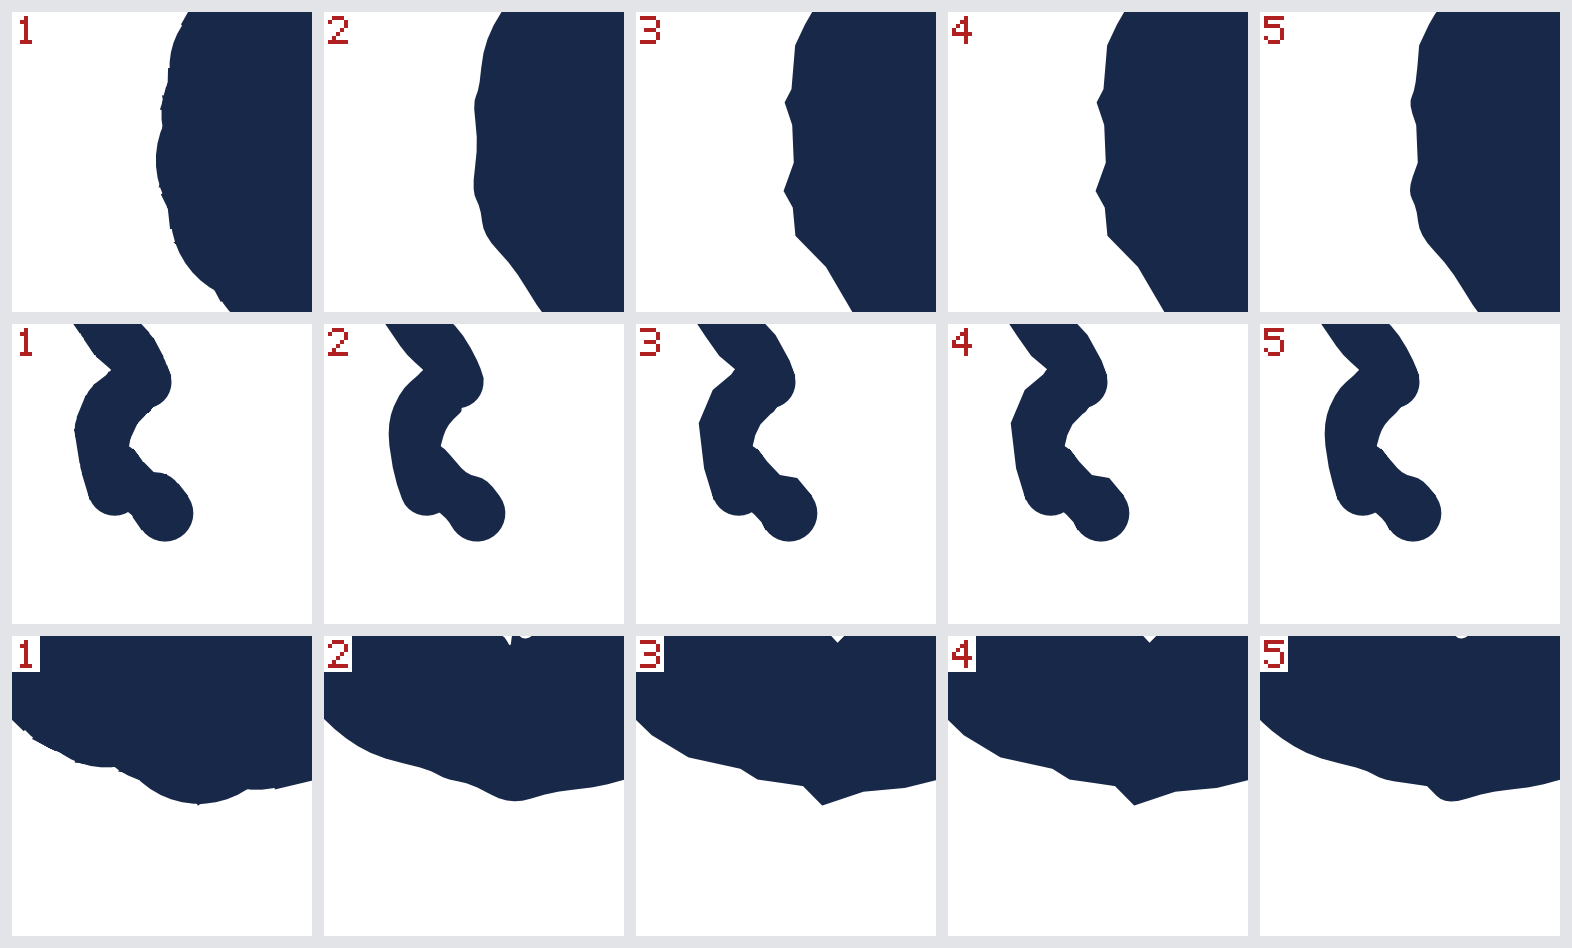
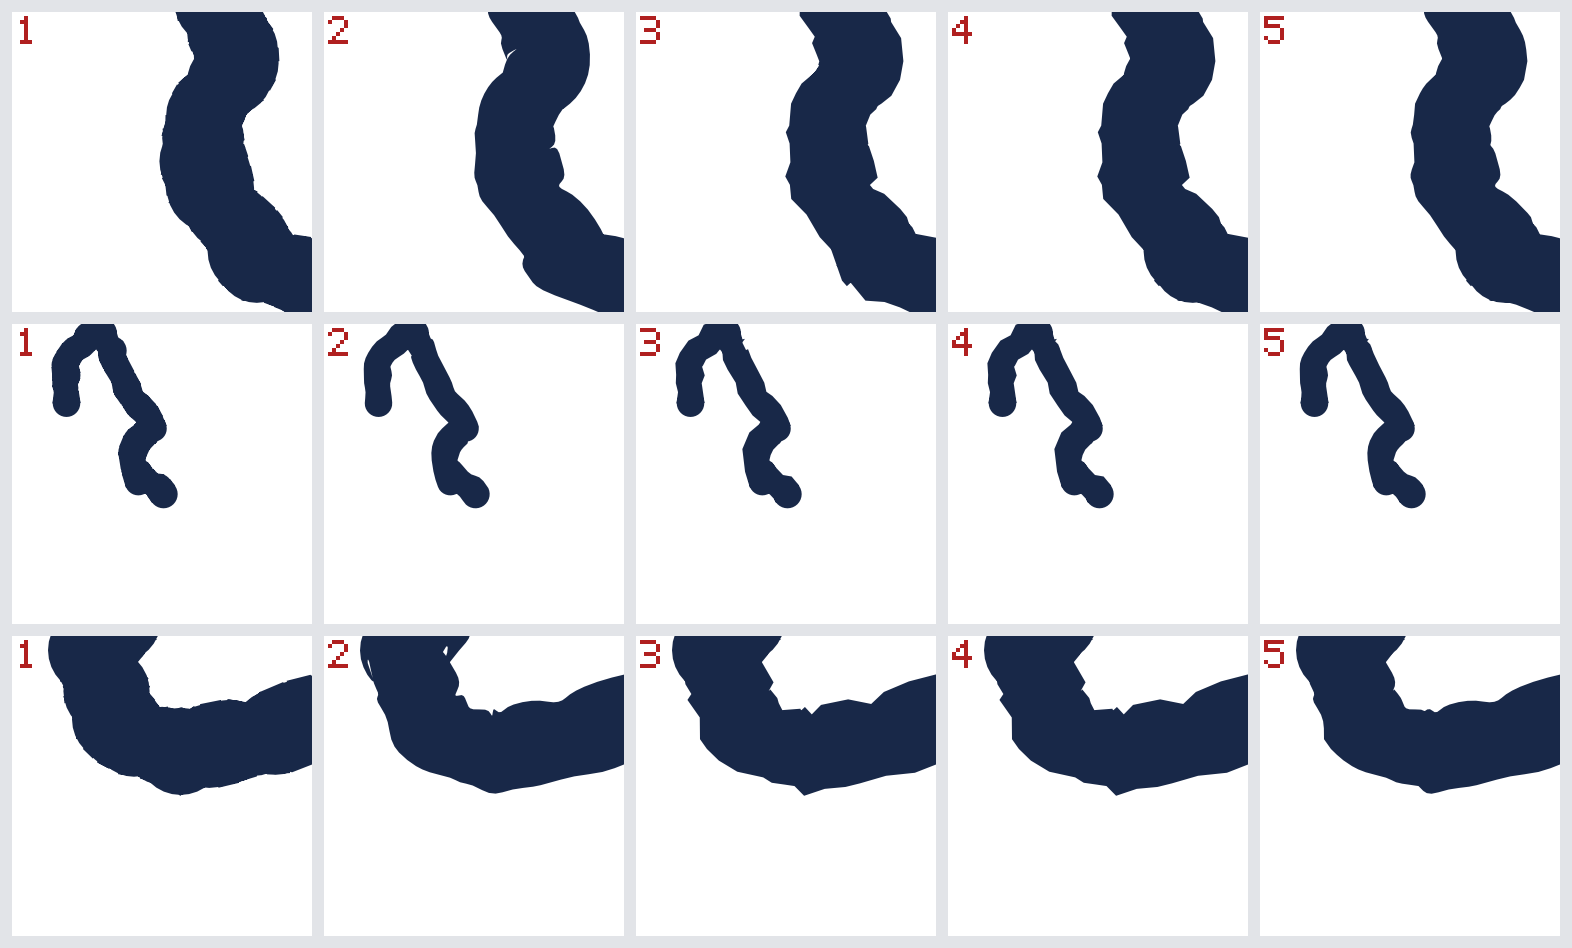
Slice 3d: the second picture shows both edges of a stroke
The UX re-review found white marks at the top of one row of the second
picture that the caption did not explain. That picture is now drawn at
half the zoom of the first, so both edges of each wide stroke are in
the cell: the marks are notches cut into the far edge where one run
ends and the next begins, not gaps inside the ink. The caption and the
alt text say so, name the single path's slits in the same strokes, and
explain the white ticks along the edge of discs and bands.

PROFILE.md: "licences read from crate metadata, code not audited".

Claude-Session: https://claude.ai/code/session_01MNGBU5gkNH4LK7ZaEzpAyp

diff --git a/spike/render-trial/src/main.rs b/spike/render-trial/src/main.rs
@@ -560,7 +560,7 @@ const DIGITS: [[u8; 7]; 5] = [
 ];
 
 /// A picture of the forms side by side, as a PNG: parts of three rough strokes, a row each, drawn by `vello_cpu`
-/// at 8192 pixels a unit (thirty-two times the scene's zoom). The columns carry their numbers: 1 discs and
+/// at 8192 or 4096 pixels a unit (thirty-two or sixteen times the scene's zoom). The columns carry their numbers: 1 discs and
 /// bands, 2 the single path, 3 runs cut at a quarter turn, 4 runs cut at an eighth, 5 runs cut at an eighth
 /// with their sides smoothed.
 ///
@@ -569,16 +569,18 @@ const DIGITS: [[u8; 7]; 5] = [
 /// that stretch. `runs`: those where the smoothed runs cover the least of what discs and bands cover, each row
 /// centred on the longest stretch they miss.
 fn picture(out: &str, worst: &str) {
+    // Pixels a unit: thirty-two times the scene's zoom for `single`, whose flaws are small, and sixteen times
+    // for `runs`, so that both edges of a wide stroke are in the cell.
+    let zoom = if worst == "runs" { 4096.0 } else { 8192.0 };
     const CELL: usize = 300;
     const GAP: usize = 12;
     const ROWS: usize = 3;
-    const ZOOM: f64 = 8192.0;
     let rough = (true, false);
     let forms = [KINDS[0].1, KINDS[2].1, KINDS[3].1, KINDS[4].1, KINDS[5].1];
-    let paths = forms.map(|kind| scene::lone_strokes(300, kind, ZOOM, rough, 100));
+    let paths = forms.map(|kind| scene::lone_strokes(300, kind, zoom, rough, 100));
     let mut ranked: Vec<(f64, Point, usize)> = match worst {
         "single" => {
-            let inside = scene::lone_strokes(300, KINDS[0].1, ZOOM, rough, 70);
+            let inside = scene::lone_strokes(300, KINDS[0].1, zoom, rough, 70);
             (0..300)
                 .map(|i| {
                     let (gap, at) = worst_gap(&inside[i], &paths[1][i]);

diff --git a/PROFILE.md b/PROFILE.md
@@ -6,7 +6,7 @@
 | Classification | prototype (spike stage): design documents and the first spike code (`crates/everink-core`, `crates/everink-sync`, and the trial packages `spike/text-trial`, `spike/render-trial`, `spike/render-web`, `spike/store-trial`, `spike/controls-trial`, `spike/controls-window` and `spike/controls-web`). Nothing is released. Everink is a planned infinite, multi-user drawing surface with one core for native and WebAssembly (`docs/vision.md`) |
 | Accountable owner | Von Chance (vchance) — owner-reserved decisions (R8); approver of exceptions and D-overrides |
 | Supported platforms | Linux x86-64: `CI` (build, lint, tests). macOS aarch64: `manual` (the owner's Mac; the golden file is written there; the controls window is opened and its screen-reader and keyboard checks are made there). wasm32 (`wasm32-wasip1`, under Node): `CI` for `everink-core` only (tests and both golden files). A browser (`wasm32-unknown-unknown`): `CI` builds and lints `spike/render-web` and lints `spike/controls-web`; `manual` for running them (Chrome on the owner's Mac; the renderer page checks itself, and `spike/controls-web/check.mjs` drives the controls page). Windows: `nobody` |
-| Toolchain | Rust 1.97.1, pinned in `rust-toolchain.toml` with `rustfmt`, `clippy` and the `wasm32-wasip1` and `wasm32-unknown-unknown` targets; Node (as found on the machine: 26 on the owner's Mac, the runner's own on CI) runs the wasm32 tests through `tools/wasi-run.mjs`; edition 2024; one Cargo workspace (`Cargo.toml`, `Cargo.lock` committed). Dependencies: `num-bigint` 0.5.1 and `num-traits` 0.2.19; for tests only, `dashu-int` 0.6.2 as a second big-integer library to check against; for one example only, `socket2` 0.6.5 (with `libc`, and on Windows targets `windows-sys` and `windows-link`), all MIT OR Apache-2.0. Licenses: all MIT OR Apache-2.0, except two crates that `dashu-int` brings in for tests, `num-modular` and `num-order`, which are Apache-2.0 only (compatible; test-only, never distributed). The trial package `spike/text-trial` is outside the workspace with its own lock file: `loro` 1.17.1, `yrs` 0.28.1, `automerge` 0.12.0 and what they bring in (201 packages over all platforms; all offer MIT or Apache-2.0 except `im`, `bitmaps`, `sized-chunks` (MPL-2.0-or-later) and `xxhash-rust` (BSL-1.0) from Loro and `zlib-rs` (Zlib) from Automerge; trial-only, never distributed, read from crate metadata and not audited). The trial package `spike/render-trial` is outside the workspace with its own lock file: `vello_gpu` 0.4.0, `vello_cpu` 0.4.0, `vello_common` 0.4.0, `wgpu` 30.0.2, `pollster` 1.0.1, and for slice 3d `i_overlay` 9.1.0 (polygon clipping, used by its `union` run only) and `png` 0.18.1 (already brought in by the others; now used directly to write a picture), and what they bring in (219 packages over all platforms, 221 entries in the lock file with the trial and the core; all offer MIT or Apache-2.0 except `foldhash`, `slotmap` and `zlib-rs` (Zlib), `libloading` (ISC) and `yoke`, `yoke-derive`, `zerofrom`, `zerofrom-derive` (Unicode-3.0); `i_overlay` is MIT OR Apache-2.0 and the four it brings in, `i_float` 5.0.0, `i_key_sort` 0.12.0, `i_shape` 5.0.0 and `i_tree` 0.20.0, are MIT; trial-only, never distributed, read from crate metadata and not audited; the PR reviewer's `cargo audit` of the lock file on 2026-11-13 reported no advisories). The trial package `spike/render-web` is outside the workspace with its own lock file: the same renderer packages for `wasm32-unknown-unknown`, with `wasm-bindgen` 0.2.130, `wasm-bindgen-futures` 0.4.80, `js-sys` and `web-sys` 0.3.107 and `futures-channel` 0.3.34 (168 packages over all platforms; all offer MIT or Apache-2.0 except `foldhash` and `zlib-rs` (Zlib), `libloading` (ISC) and `yoke`, `yoke-derive`, `zerofrom`, `zerofrom-derive` (Unicode-3.0); trial-only, never distributed, read from crate metadata). `cargo audit` on 2026-11-12 found no advisory for the workspace's lock file or the two renderer trials'; for `spike/text-trial` it gave seven warnings and no vulnerability (unmaintained: `atomic-polyfill`, `bitmaps`, `im`, `sized-chunks`, `smallstr`; unsound: `im`, `sized-chunks`; all brought in by Loro). The trial package `spike/store-trial` is outside the workspace with its own lock file: `rusqlite` 0.42.0 with its `bundled` feature (SQLite 3.54.1, built from source, public domain), `lz4_flex` 0.14.0, `blake3` 1.8.7, `crc32c` 0.6.9 and what they bring in (37 packages over all platforms; all offer MIT or Apache-2.0 except `foldhash` (Zlib); trial-only, never distributed, read from crate metadata; no advisory on 2026-11-12). The trial package `spike/controls-trial` is outside the workspace with its own lock file: `egui` 0.37.0, `taffy` 0.15.1, `parley` 0.12.0, `accesskit` 0.25.2 and what they bring in (120 packages over all platforms; all offer MIT or Apache-2.0 except `foldhash` and `slotmap` (Zlib), `libloading` (ISC) and 22 packages of ICU4X and its helpers (Unicode-3.0), which `parley` brings; `unicode-ident` and `unicode-properties` are (MIT OR Apache-2.0) AND Unicode-3.0; `epaint_default_fonts` is MIT OR Apache-2.0 for its code and the trial builds three of its font files in: Ubuntu Light (Ubuntu Font Licence 1.0; used by both candidates), Hack (MIT and the Bitstream Vera licence, which reserves the font names) and a small icon set (MIT); its fonts under OFL-1.1 are not built in; trial-only, never distributed, read from crate metadata; no advisory on 2026-11-12). The trial package `spike/controls-window` is outside the workspace with its own lock file: `winit` 0.30.13, `accesskit_winit` 0.34.2, `wgpu` 30.0.2, `egui-wgpu` 0.37.0, `vello_gpu` 0.4.0, `glifo` 0.5.0, `png` 0.18.1 and what they bring in (440 packages over all platforms; all offer MIT or Apache-2.0, twelve of them Apache-2.0 only, among them `winit` and `accesskit_winit`, and `dpi` under both at once (Apache-2.0 AND MIT), except `arrayref` (BSD-2-Clause), `tiny-skia` and `tiny-skia-path` (BSD-3-Clause), `libloading` (ISC), `foldhash`, `slotmap` and `zlib-rs` (Zlib), the 22 of ICU4X (Unicode-3.0) and the font files noted for the controls trial; trial-only, never distributed, read from crate metadata; `cargo audit` on 2026-11-12: no vulnerability, four warnings of unmaintained packages (`ttf-parser`, `zbus_names`, `zvariant`, `zvariant_derive`, the last three from the Linux accessibility adapter)). The trial package `spike/controls-web` is outside the workspace with its own lock file: the controls window's packages for `wasm32-unknown-unknown` without winit and the platform adapters, with `wasm-bindgen` 0.2.130, `wasm-bindgen-futures` 0.4.80, `web-sys` 0.3.107 and `serde_json` (221 packages over all platforms; all offer MIT or Apache-2.0, two of them Apache-2.0 only, and `unicode-ident` and `unicode-properties` with Unicode-3.0 added, except `libloading` (ISC), `foldhash`, `slotmap` and `zlib-rs` (Zlib), the 22 of ICU4X (Unicode-3.0) and the font files noted for the controls trial; trial-only, never distributed, read from crate metadata; no advisory on 2026-11-12). The browser trial is built with the `wasm-bindgen` command line tool 0.2.130, installed by hand (`cargo install wasm-bindgen-cli --version 0.2.130 --locked`); CI does not need it. Crates are `publish = false`: publishing is an owner decision |
+| Toolchain | Rust 1.97.1, pinned in `rust-toolchain.toml` with `rustfmt`, `clippy` and the `wasm32-wasip1` and `wasm32-unknown-unknown` targets; Node (as found on the machine: 26 on the owner's Mac, the runner's own on CI) runs the wasm32 tests through `tools/wasi-run.mjs`; edition 2024; one Cargo workspace (`Cargo.toml`, `Cargo.lock` committed). Dependencies: `num-bigint` 0.5.1 and `num-traits` 0.2.19; for tests only, `dashu-int` 0.6.2 as a second big-integer library to check against; for one example only, `socket2` 0.6.5 (with `libc`, and on Windows targets `windows-sys` and `windows-link`), all MIT OR Apache-2.0. Licenses: all MIT OR Apache-2.0, except two crates that `dashu-int` brings in for tests, `num-modular` and `num-order`, which are Apache-2.0 only (compatible; test-only, never distributed). The trial package `spike/text-trial` is outside the workspace with its own lock file: `loro` 1.17.1, `yrs` 0.28.1, `automerge` 0.12.0 and what they bring in (201 packages over all platforms; all offer MIT or Apache-2.0 except `im`, `bitmaps`, `sized-chunks` (MPL-2.0-or-later) and `xxhash-rust` (BSL-1.0) from Loro and `zlib-rs` (Zlib) from Automerge; trial-only, never distributed, read from crate metadata and not audited). The trial package `spike/render-trial` is outside the workspace with its own lock file: `vello_gpu` 0.4.0, `vello_cpu` 0.4.0, `vello_common` 0.4.0, `wgpu` 30.0.2, `pollster` 1.0.1, and for slice 3d `i_overlay` 9.1.0 (polygon clipping, used by its `union` run only) and `png` 0.18.1 (already brought in by the others; now used directly to write a picture), and what they bring in (219 packages over all platforms, 221 entries in the lock file with the trial and the core; all offer MIT or Apache-2.0 except `foldhash`, `slotmap` and `zlib-rs` (Zlib), `libloading` (ISC) and `yoke`, `yoke-derive`, `zerofrom`, `zerofrom-derive` (Unicode-3.0); `i_overlay` is MIT OR Apache-2.0 and the four it brings in, `i_float` 5.0.0, `i_key_sort` 0.12.0, `i_shape` 5.0.0 and `i_tree` 0.20.0, are MIT; trial-only, never distributed; licences read from crate metadata, code not audited; the PR reviewer's `cargo audit` of the lock file on 2026-11-13 reported no advisories). The trial package `spike/render-web` is outside the workspace with its own lock file: the same renderer packages for `wasm32-unknown-unknown`, with `wasm-bindgen` 0.2.130, `wasm-bindgen-futures` 0.4.80, `js-sys` and `web-sys` 0.3.107 and `futures-channel` 0.3.34 (168 packages over all platforms; all offer MIT or Apache-2.0 except `foldhash` and `zlib-rs` (Zlib), `libloading` (ISC) and `yoke`, `yoke-derive`, `zerofrom`, `zerofrom-derive` (Unicode-3.0); trial-only, never distributed, read from crate metadata). `cargo audit` on 2026-11-12 found no advisory for the workspace's lock file or the two renderer trials'; for `spike/text-trial` it gave seven warnings and no vulnerability (unmaintained: `atomic-polyfill`, `bitmaps`, `im`, `sized-chunks`, `smallstr`; unsound: `im`, `sized-chunks`; all brought in by Loro). The trial package `spike/store-trial` is outside the workspace with its own lock file: `rusqlite` 0.42.0 with its `bundled` feature (SQLite 3.54.1, built from source, public domain), `lz4_flex` 0.14.0, `blake3` 1.8.7, `crc32c` 0.6.9 and what they bring in (37 packages over all platforms; all offer MIT or Apache-2.0 except `foldhash` (Zlib); trial-only, never distributed, read from crate metadata; no advisory on 2026-11-12). The trial package `spike/controls-trial` is outside the workspace with its own lock file: `egui` 0.37.0, `taffy` 0.15.1, `parley` 0.12.0, `accesskit` 0.25.2 and what they bring in (120 packages over all platforms; all offer MIT or Apache-2.0 except `foldhash` and `slotmap` (Zlib), `libloading` (ISC) and 22 packages of ICU4X and its helpers (Unicode-3.0), which `parley` brings; `unicode-ident` and `unicode-properties` are (MIT OR Apache-2.0) AND Unicode-3.0; `epaint_default_fonts` is MIT OR Apache-2.0 for its code and the trial builds three of its font files in: Ubuntu Light (Ubuntu Font Licence 1.0; used by both candidates), Hack (MIT and the Bitstream Vera licence, which reserves the font names) and a small icon set (MIT); its fonts under OFL-1.1 are not built in; trial-only, never distributed, read from crate metadata; no advisory on 2026-11-12). The trial package `spike/controls-window` is outside the workspace with its own lock file: `winit` 0.30.13, `accesskit_winit` 0.34.2, `wgpu` 30.0.2, `egui-wgpu` 0.37.0, `vello_gpu` 0.4.0, `glifo` 0.5.0, `png` 0.18.1 and what they bring in (440 packages over all platforms; all offer MIT or Apache-2.0, twelve of them Apache-2.0 only, among them `winit` and `accesskit_winit`, and `dpi` under both at once (Apache-2.0 AND MIT), except `arrayref` (BSD-2-Clause), `tiny-skia` and `tiny-skia-path` (BSD-3-Clause), `libloading` (ISC), `foldhash`, `slotmap` and `zlib-rs` (Zlib), the 22 of ICU4X (Unicode-3.0) and the font files noted for the controls trial; trial-only, never distributed, read from crate metadata; `cargo audit` on 2026-11-12: no vulnerability, four warnings of unmaintained packages (`ttf-parser`, `zbus_names`, `zvariant`, `zvariant_derive`, the last three from the Linux accessibility adapter)). The trial package `spike/controls-web` is outside the workspace with its own lock file: the controls window's packages for `wasm32-unknown-unknown` without winit and the platform adapters, with `wasm-bindgen` 0.2.130, `wasm-bindgen-futures` 0.4.80, `web-sys` 0.3.107 and `serde_json` (221 packages over all platforms; all offer MIT or Apache-2.0, two of them Apache-2.0 only, and `unicode-ident` and `unicode-properties` with Unicode-3.0 added, except `libloading` (ISC), `foldhash`, `slotmap` and `zlib-rs` (Zlib), the 22 of ICU4X (Unicode-3.0) and the font files noted for the controls trial; trial-only, never distributed, read from crate metadata; no advisory on 2026-11-12). The browser trial is built with the `wasm-bindgen` command line tool 0.2.130, installed by hand (`cargo install wasm-bindgen-cli --version 0.2.130 --locked`); CI does not need it. Crates are `publish = false`: publishing is an owner decision |
 | Required services for tests | none |
 | CI runners and storage (D9, D11) | `public: GitHub-hosted` (owner call-out 2026-11-10, "gitrunners will be guthub", linked from `AGENTS.md` › Owner decisions): every job names the standard hosted label `ubuntu-24.04` directly, with no placement gate; no `RUNS_ON_*` variable exists (`RUNS_ON_SMALL__VCHANCE`, which named an Ubicloud label, was removed on 2026-11-10 before the switch); jobs: `policy-drift`, `pr-evidence`, and in `ci`: `changes`, `lint`, `test`, `text-trial`, `render-trial`, `store-trial`, `controls-trial`, `ci-result`; ci-result: defined in `ci` and required by `merge.sh`; nothing is placed, so it checks job results only; scheduled lane: `ci` hourly at minute 23 (the integration lane; a public repository's jobs are not placed, so there is no operator placement to check); self-hosted pools reached from here: none; artifact store and caches (D11): none: no job writes artifacts or caches |
 

diff --git a/docs/spike/results-3d-outline-forms.md b/docs/spike/results-3d-outline-forms.md
@@ -169,7 +169,7 @@ core's, so their area is not comparable.
 
 ### The pictures
 
-Parts of rough strokes at 8192 pixels a unit, thirty-two times the scene's zoom, drawn by `vello_cpu`
+Parts of rough strokes, magnified, drawn by `vello_cpu`
 (`render-trial picture <file.png> single` and `... runs`). In both pictures a row is one stroke, the same part of
 it in every column, and each cell carries its column's number:
 
@@ -180,12 +180,13 @@ it in every column, and each cell carries its column's number:
 On this page the pictures are shown at about half their size; opened by themselves they are 1572 pixels wide.
 
 **Where the single path does worst.** The three strokes, of the first 300 rough ones, where the single path
-leaves the longest stretch of the stroke's inside uncovered; each row is centred there.
+leaves the longest stretch of the stroke's inside uncovered; each row is centred there. It is at 8192 pixels a
+unit, thirty-two times the scene's zoom.
 
-![Three rough strokes, a row each, in five outline forms, columns numbered 1 to 5: discs and bands, single path, runs cut at a quarter turn, runs cut at an eighth, the same smoothed. Column 2 has a white crescent-shaped hole in the middle of the second row and a white notch at the top of the round end in the third; the other columns are filled there. Column 3 has pointed corners where columns 1, 4 and 5 are round.](images/3d-forms.png)
+![Three rough strokes, a row each, in five outline forms, columns numbered 1 to 5: discs and bands, single path, runs cut at a quarter turn, runs cut at an eighth, the same smoothed. Column 2 has a white crescent-shaped hole in the middle of the second row and a thin white slit at the top of the round end in the third; the other columns are filled in the second row and have only a shallow dip in the third. Column 3 has pointed corners where columns 1, 4 and 5 are round.](images/3d-forms.png)
 
 - Column 2, the single path. Row 2: a crescent-shaped hole in the middle of the cell, where the stroke curls
-  back under itself. Row 3: a notch in the top of the round end at the left. In row 1 its outline is a different
+  back under itself. Row 3: a white slit in the top of the round end at the left, where the others have only a shallow dip. In row 1 its outline is a different
   shape from the others where the stroke turns back at the left.
 - Column 1, discs and bands: whole. Its edge is lumpy, because the disc of every point shows where the pressure
   changes.
@@ -199,13 +200,23 @@ leaves the longest stretch of the stroke's inside uncovered; each row is centred
 
 **Where runs do worst.** No stroke in the first picture was chosen against runs. In this one the three strokes
 are those where the smoothed runs (column 5) cover the least of what discs and bands (column 1) cover: 1.7%,
-1.7% and 1.6% less area. Each row is centred on the longest stretch they miss.
+1.7% and 1.6% less area. Each row is centred on the longest stretch they miss. This picture is at 4096 pixels a
+unit, half the zoom of the first, so that both edges of a stroke are in the cell.
 
-![Three more rough strokes in the same five columns. In the first and third rows column 1 has a rounded, bulging edge; columns 3, 4 and 5 follow it with flatter edges that stay inside it, with corners in columns 3 and 4 and curves in column 5. No column has a hole.](images/3d-forms-runs.png)
+![Three more rough strokes in the same five columns, at half the zoom. In the first and third rows each stroke is a wide band with both edges in view. Column 1 is the fullest and its edges are lumpy. Columns 3, 4 and 5 are a little narrower in places, with small V-shaped notches in their edges, cut from outside; column 5 has curves where columns 3 and 4 have corners. Column 2 has thin white slits inside the ink near the top of the first row and at the top left of the third. The second row is a thin stroke at its whole size and looks alike in all five.](images/3d-forms-runs.png)
 
-- Rows 1 and 3 show the taper. Discs and bands (column 1) bulge round each heavy point; runs go straight from
-  one width to the next and stay inside that bulge. The single path (column 2) tapers the same way.
-- Row 2 is a short stroke at its whole size: the forms differ at its turns, and none has a hole.
+- Rows 1 and 3 show the taper. Discs and bands (column 1) bulge round each heavy point; runs (columns 3 to 5) go
+  straight from one width to the next and stay inside that bulge, so they are a little narrower in places.
+- The small V-shaped notches in the edges of columns 3 to 5 (row 1, both edges; row 3, the upper edge and the
+  bottom) are where one run ends and the next begins: two flat ends meeting at a gentle turn, with a wedge or the
+  next run's first piece between them. They are cut into the edge from outside. None is a gap inside the ink.
+  Smoothing (column 5) rounds the sides between them and leaves them.
+- Column 2, the single path, tapers as runs do, and has slits inside the ink where it folds: near the top of
+  row 1 and at the top left of row 3.
+- Row 2 is a thin stroke at its whole size: the forms differ a little at its turns, and none has a hole.
+
+In both pictures the edge of column 1 has short white ticks along it. They are the places where the straight
+edge of a band meets a disc of another size, and they are part of that shape, not a fault of the drawing.
 
 At the scene's own zoom these strokes are 2 to 6 pixels wide and the forms cannot be told apart by eye, but for
 the holes. Everink zooms without limit, so the magnified look matters. The pressure in these strokes changes at
